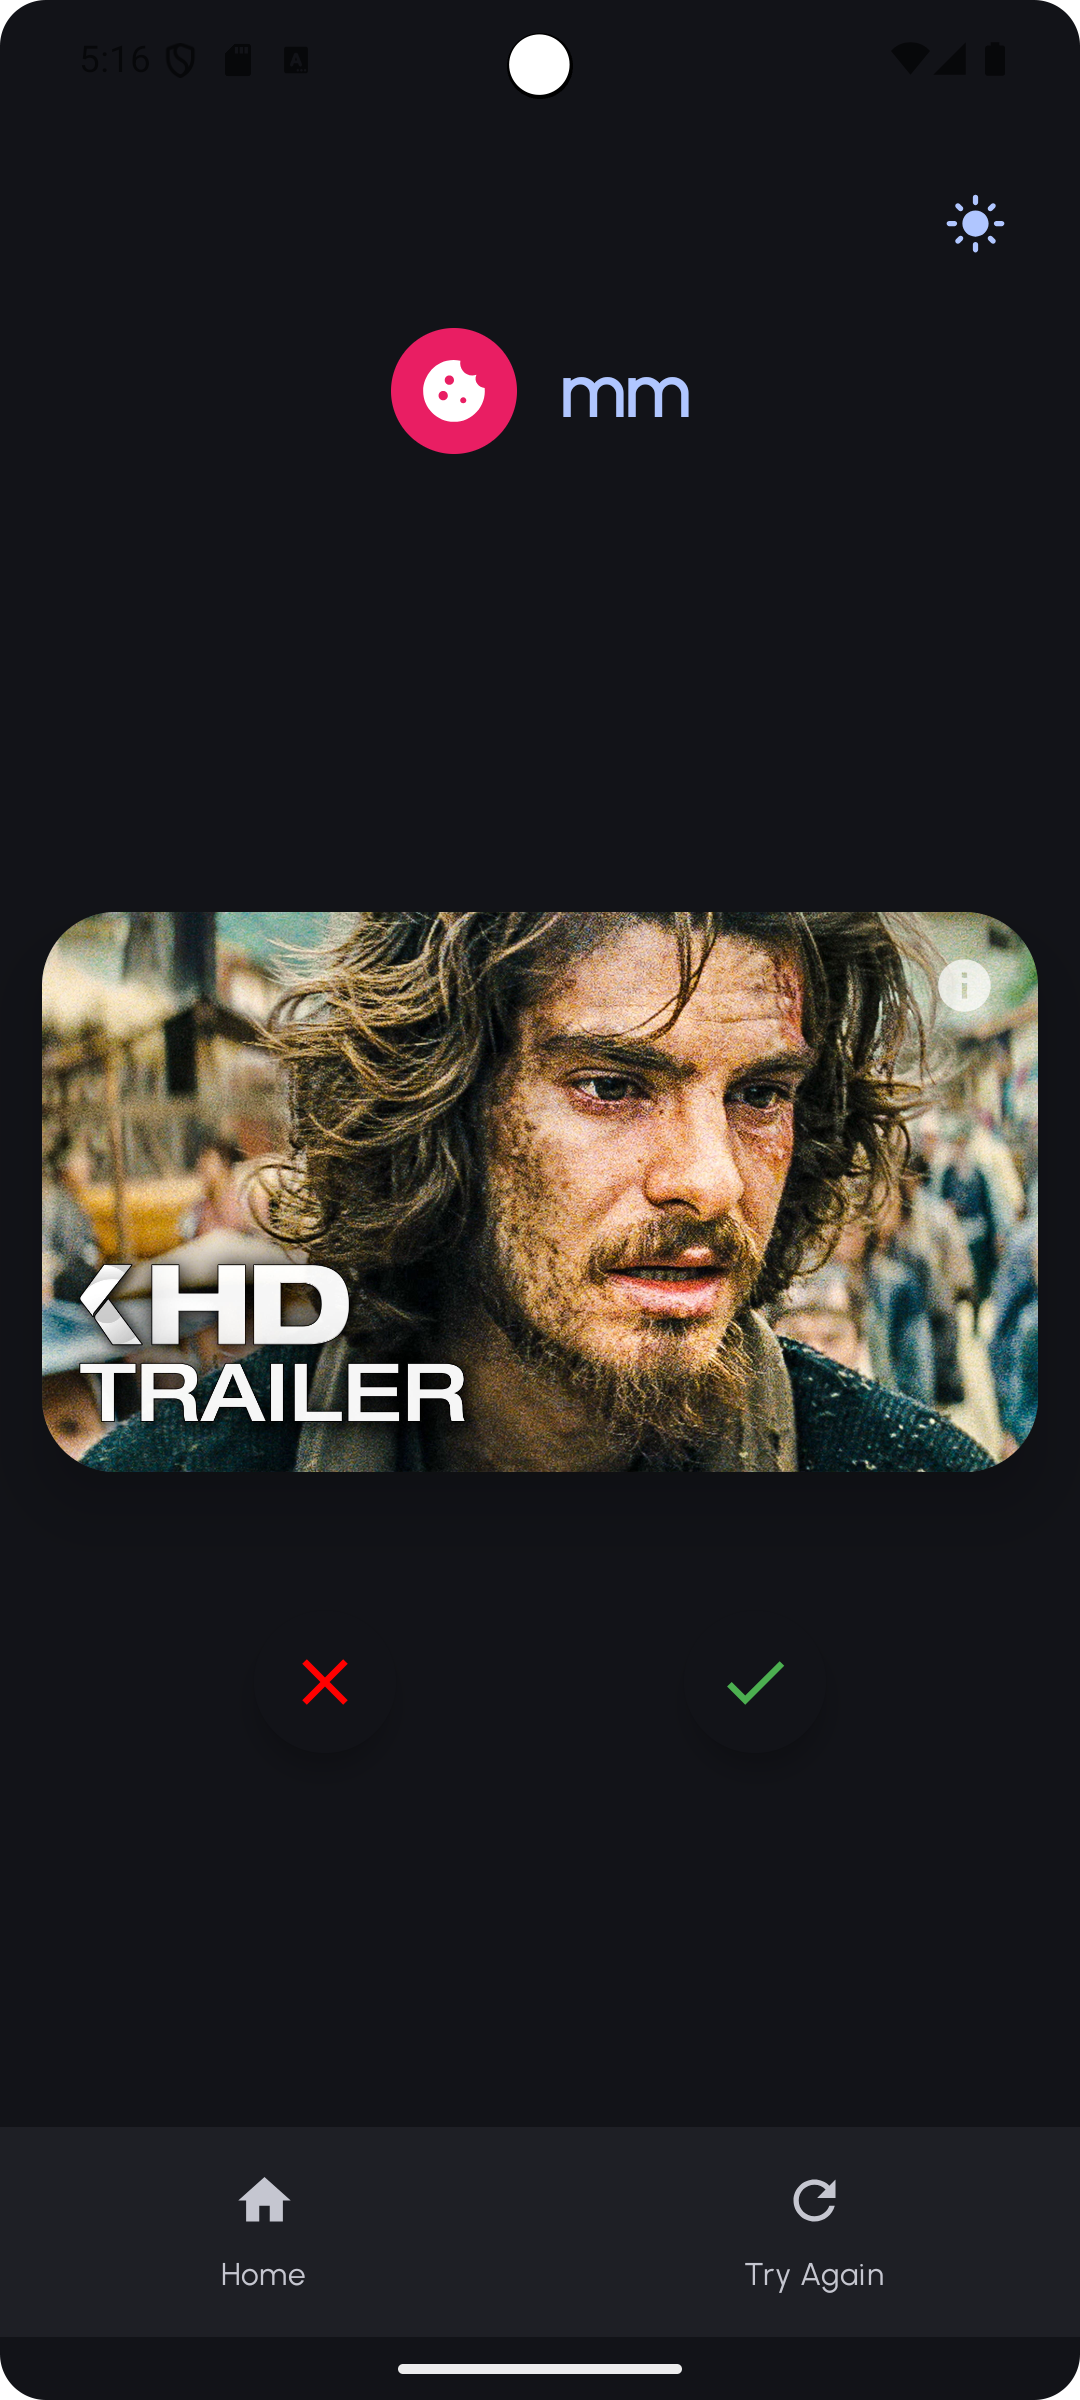
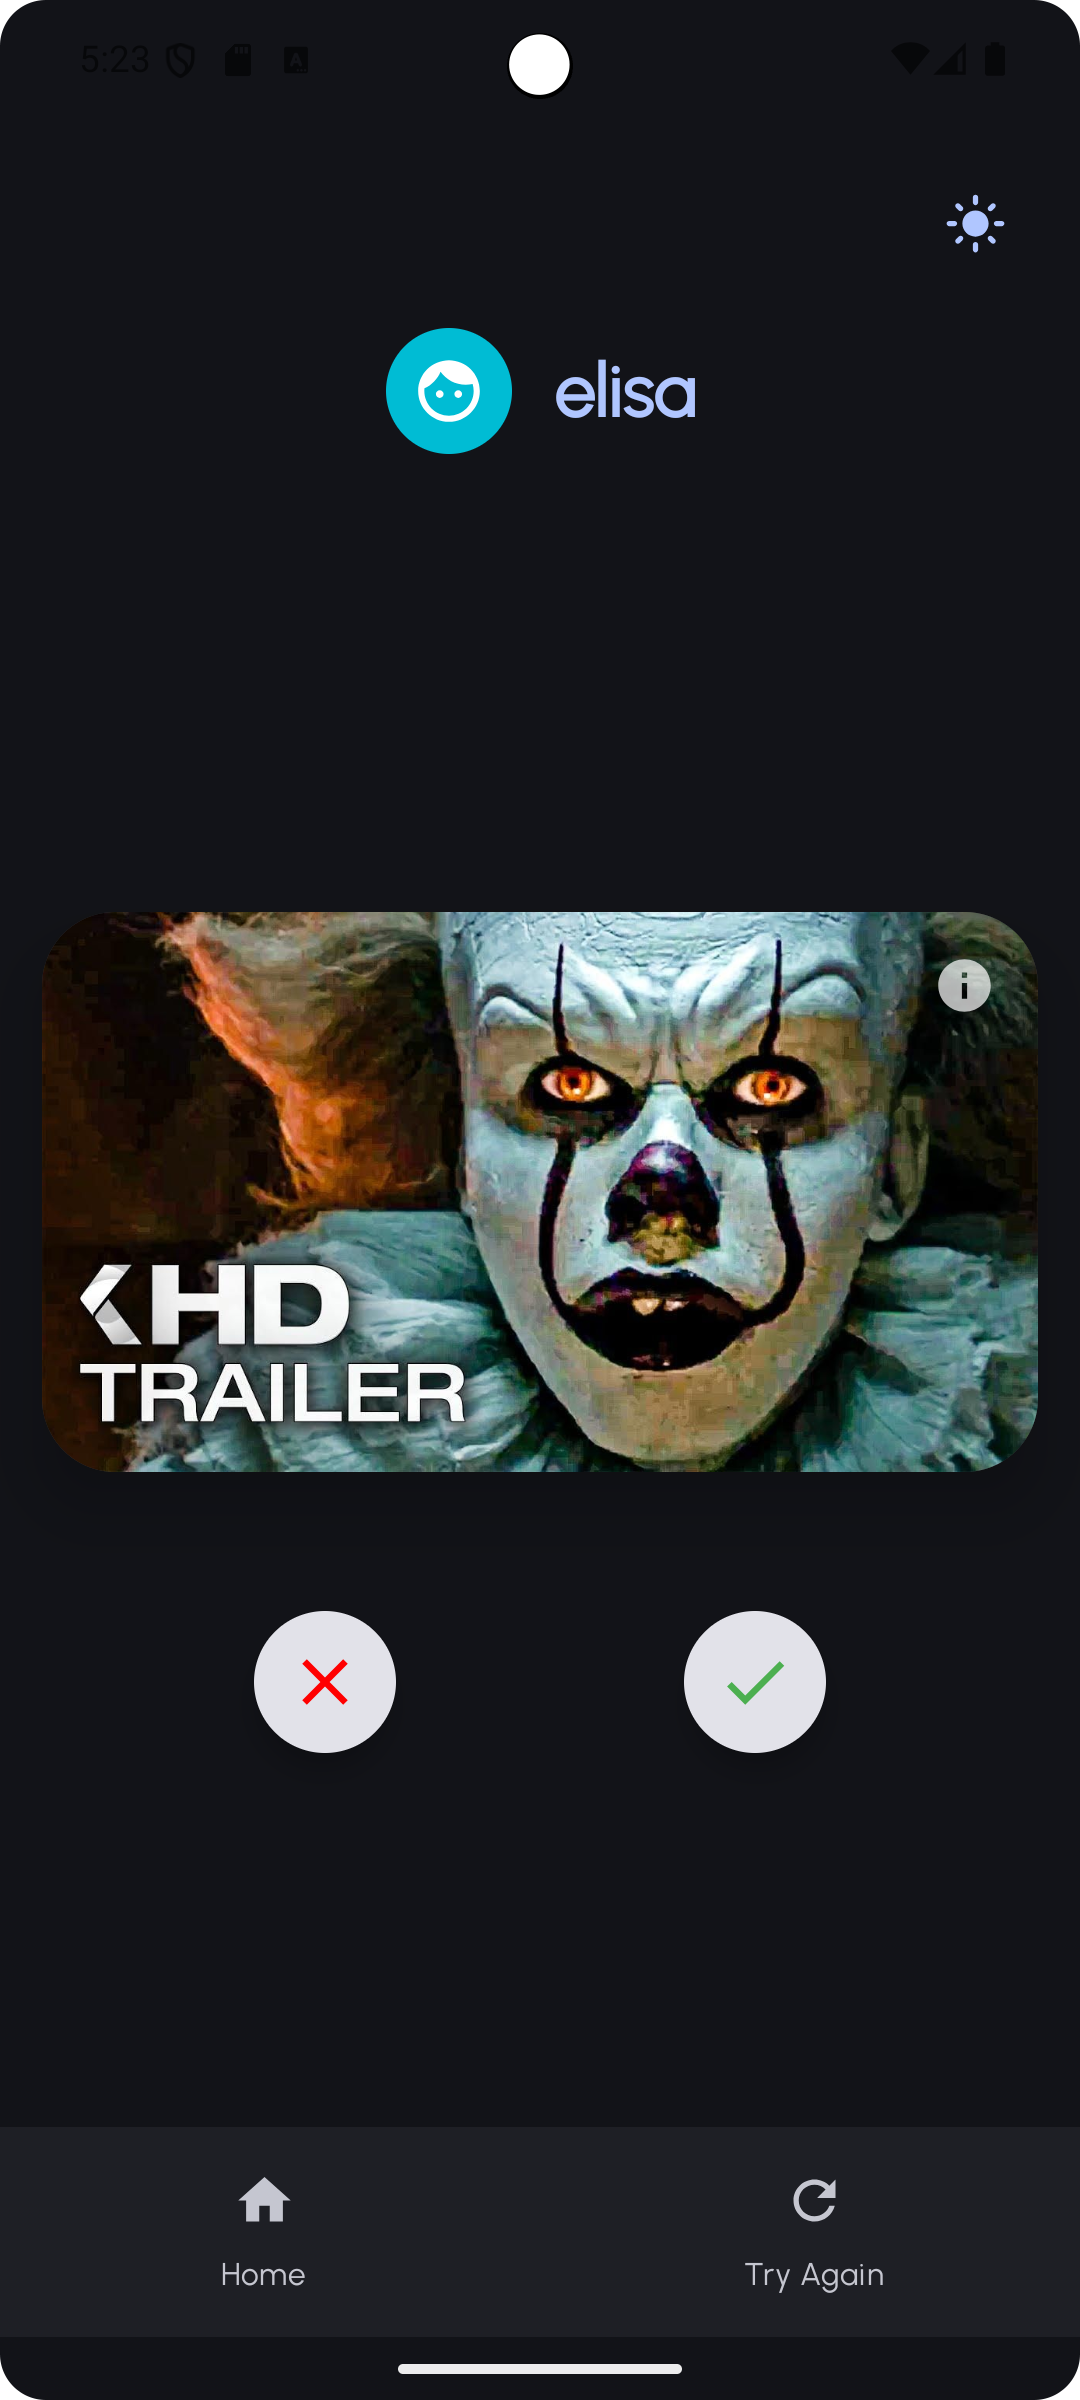
changed color of vote buttons

diff --git a/app/src/main/java/com/mobile_systems/android/movienight/ui/movienightevent/VoteScreen.kt b/app/src/main/java/com/mobile_systems/android/movienight/ui/movienightevent/VoteScreen.kt
@@ -239,7 +239,7 @@ fun VoteButton(icon: ImageVector, tint: Color, onClick: () -> Unit, contentDescr
         modifier = Modifier.size(80.dp)) {
         Surface(
             shape = CircleShape,
-            color = MaterialTheme.colorScheme.surface,
+            color = MaterialTheme.colorScheme.onSurface,
             shadowElevation = 6.dp
         ) {
             Icon(icon, contentDescription,
